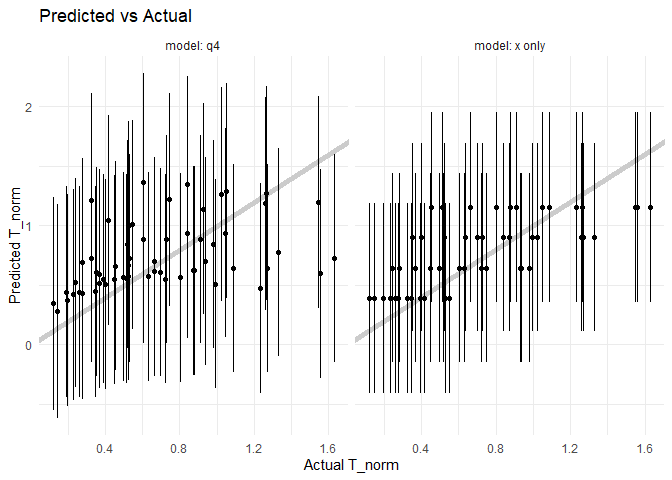
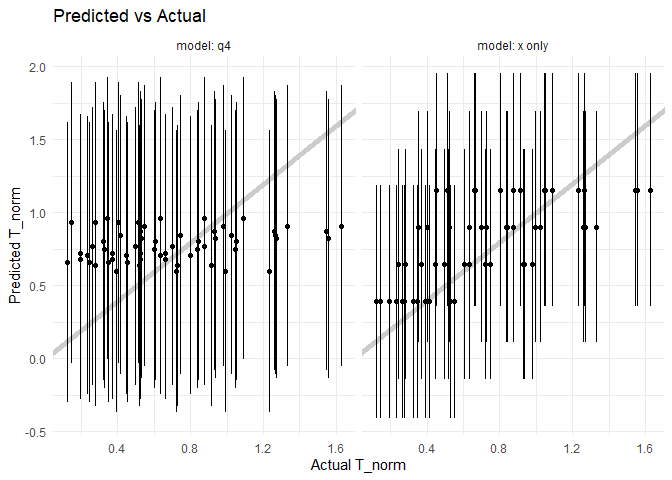
resubmit challenge 11

diff --git a/challenges/c11-psaap-assignment.md b/challenges/c11-psaap-assignment.md
@@ -256,7 +256,7 @@ of fluid, for different experimental settings (e.g. different dimensions
 ##       each identified by different values of idx
 df_psaap %>%
   ggplot(aes(x = x, y = T_norm, color = idx)) + 
-    geom_point()
+    geom_line(aes(group = idx))
 ```
 
 ![](c11-psaap-assignment_files/figure-gfm/q2-task-1.png)<!-- -->
@@ -397,17 +397,18 @@ df_train %>%
 **Observations**:
 
 - Which model is *most accurate*? Which is *least accurate*?
-  - The cheat model (with variable “avg_T”) is the most accurate, and
-    the nonphysical model (with variable “idx” is the least accurate.
+  - The cheat model (with variable `avg_T`) is the most accurate, and
+    the nonphysical model (with variable `idx` is the least accurate.
 - What *Category* of variable is `avg_T`? Why is it such an effective
   predictor?
-  - avg_T is one of the outputs of the data set, which is in the same
+  - `avg_T` is one of the outputs of the data set, which is in the same
     category as T_norm.
 - Would we have access to `avg_T` if we were trying to predict a *new*
   value of `T_norm`? Is `avg_T` a valid predictor?
-  - Yes, we would, and avg_T is a valid predictor because not only is it
-    in the same parameter category as T_norm but its general pattern
-    also lines up with T_norm very well.
+  - No, we would not. This is because `avg_T`, just like `T_norm`, is
+    categorized as the result of the data set, and therefore we would
+    not have the access of it to make predictions about the variable of
+    the same category.
 - What *Category* of variable is `idx`? Does it have any physical
   meaning?
   - idx is the metadata of the data set, and it refers to the simulation
@@ -419,18 +420,18 @@ df_train %>%
 ## TODO: Fit a model for T_norm using only *principled* predictors, try to
 ##       optimize your validation error.
 fit_q4 <- df_train %>% 
-  lm(formula = T_norm ~ rms_T)
+  lm(formula = T_norm ~ L)
 
 df_train %>%
   add_predictions(
     model = fit_q4,
-    var = "rms_T"
+    var = "L"
   ) %>%
 
-  ggplot(aes(rms_T, T_norm)) +
+  ggplot(aes(L, T_norm)) +
   geom_point() +
   geom_line(
-    aes(y = rms_T),
+    aes(y = L),
     linetype = 2,
     color = "salmon"
   )
@@ -442,7 +443,7 @@ df_train %>%
 mse(fit_q4, df_train)
 ```
 
-    ## [1] 0.1847466
+    ## [1] 0.2199783
 
 ``` r
 ## NOTE: No need to change these error calculations; use them to
@@ -450,18 +451,23 @@ mse(fit_q4, df_train)
 rsquare(fit_q4, df_train)
 ```
 
-    ## [1] 0.2055552
+    ## [1] 0.05405259
 
 ``` r
 rsquare(fit_q4, df_validate)
 ```
 
-    ## [1] 0.08079805
+    ## [1] 0.06779214
+
+``` r
+# L, rho_f
+```
 
 **Observations**:
 
-- rms_T seems to be a fairly effective predictor with a mean squared
-  error of 0.185.
+- `L` seems to be a fairly effective predictor with a mean squared error
+  of 0.22. Its `rsquare` value is 0.054, which is close to that of
+  `df_validate` (0.067).
 - *Note*: You don’t just have to fiddle with `formula`! Remember that
   you have a whole toolkit of *EDA* tools
 
@@ -621,7 +627,9 @@ bind_rows(
     intervals and thus is more confident.
 - How many predictors does the `fit_simple` model need in order to make
   a prediction? What about your model `fit_q4`?
-  - (Your response here)
+  - `fit_simple` used `x` as the only predictor to make the prediction,
+    and my model `fit_q4` used `L` as the only predictor to make the
+    prediction.
 
 Based on these results, you might be tempted to always throw every
 reasonable variable into the model. For some cases, that might be the
@@ -683,7 +691,7 @@ pr_level <- 0.8
 #        use the validation data to check your uncertainty estimates, and 
 #        make a recommendation on a *dependable range* of values for T_norm
 #        at the point `df_design`
-fit_q6 <- fit_q4 <- df_train %>% 
+fit_q6 <- df_train %>% 
   lm(formula = T_norm ~ U_0)
 
 df_train %>%
@@ -723,10 +731,44 @@ rsquare(fit_q6, df_validate)
 
     ## [1] 0.05886415
 
+``` r
+df_validate %>%
+  add_uncertainties(
+    fit_q6, 
+    interval = "prediction", 
+    prefix = "pi", 
+    level = pr_level
+  ) %>%
+  select(T_norm, pi_lwr, pi_upr) %>%
+  summarize(
+    fraction = mean(T_norm > pi_lwr & T_norm < pi_upr)
+  )
+```
+
+    ## # A tibble: 1 × 1
+    ##   fraction
+    ##      <dbl>
+    ## 1      0.9
+
+``` r
+df_design %>%
+  add_uncertainties(
+    fit_q6, 
+    interval = "prediction", 
+    prefix = "pi", 
+    level = pr_level
+  )
+```
+
+    ## # A tibble: 1 × 7
+    ##       x     L     W   U_0 pi_fit pi_lwr pi_upr
+    ##   <dbl> <dbl> <dbl> <dbl>  <dbl>  <dbl>  <dbl>
+    ## 1     1   0.2  0.04     1   1.36  0.701   2.02
+
 **Recommendation**:
 
 - How much do you trust your model? Why?
-  - Not so much, because 1) 140 data points are not too limit but are
+  - Not so much, because 1) 140 data points are not too limited but are
     also not too much for a definitive conclusion.
 - What kind of interval—confidence or prediction—would you use for this
   task, and why?
@@ -735,12 +777,14 @@ rsquare(fit_q6, df_validate)
     looking for the range of mean doesn’t necessarily serve the need.
 - What fraction of validation cases lie within the interval you predict?
   How does this compare with `pr_level`?
-  - (Your response here)
+  - 0.9 of validation cases lie within the interval I predicted, and
+    this is 0.1 higher compared to `pr_level`.
 - What interval for `T_norm` would you recommend the design team to plan
   around?
-  - (Your response here)
+  - I would recommend the design team to aim for an interval between
+    0.7011803 and 2.021301.
 - Are there any other recommendations you would provide?
-  - (Your response here)
+  - No.
 
 *Bonus*: One way you could take this analysis further is to recommend
 which other variables the design team should tightly control. You could
